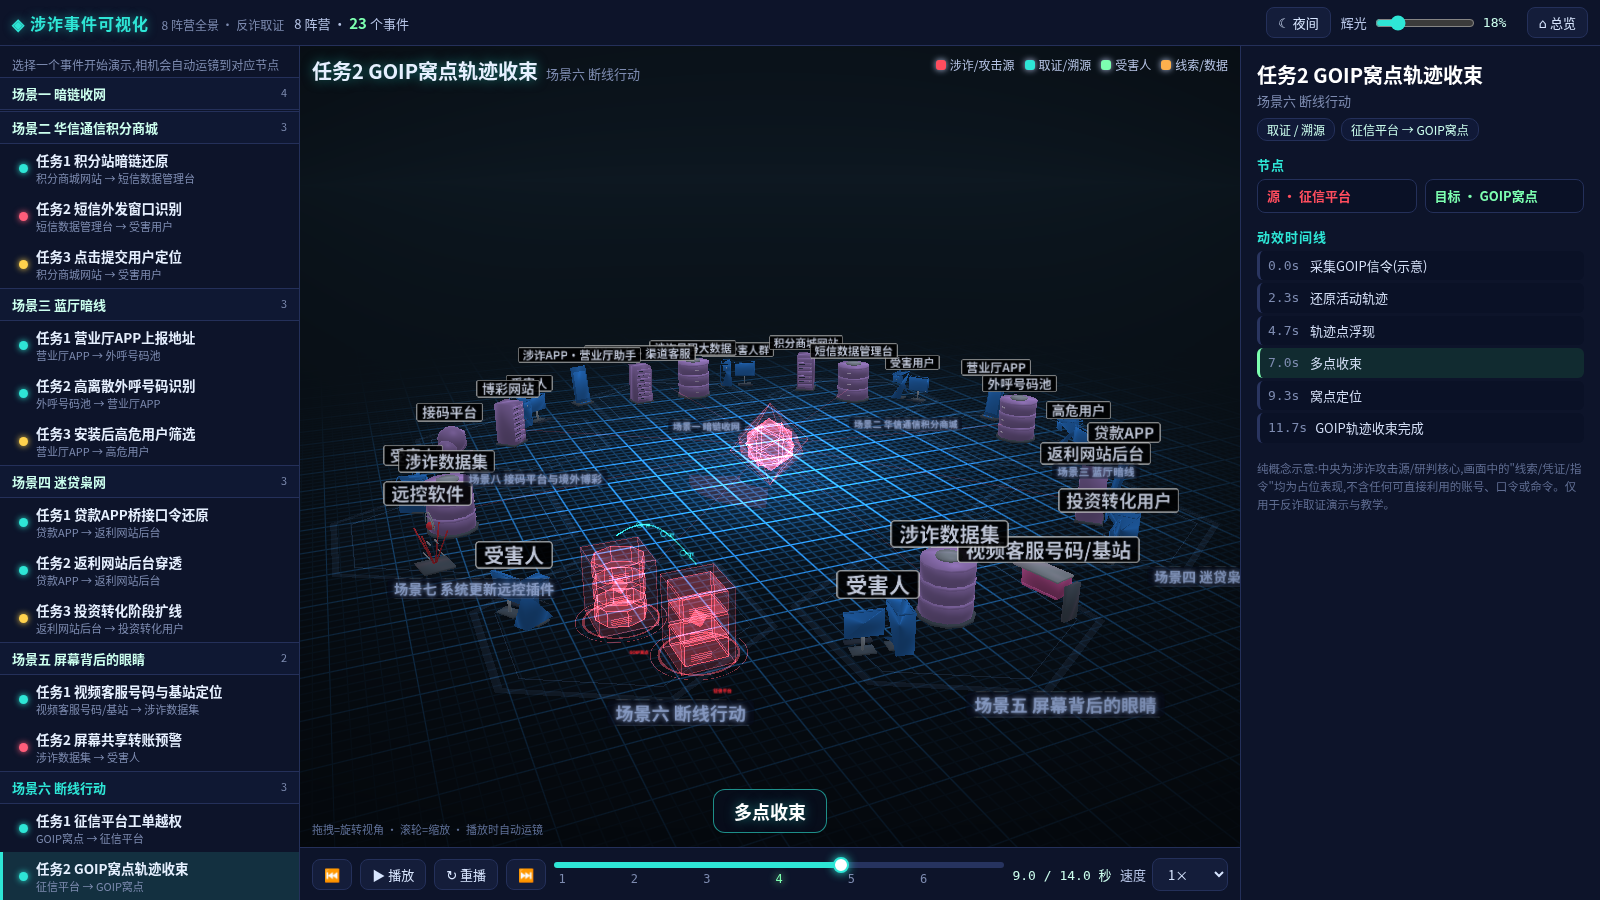
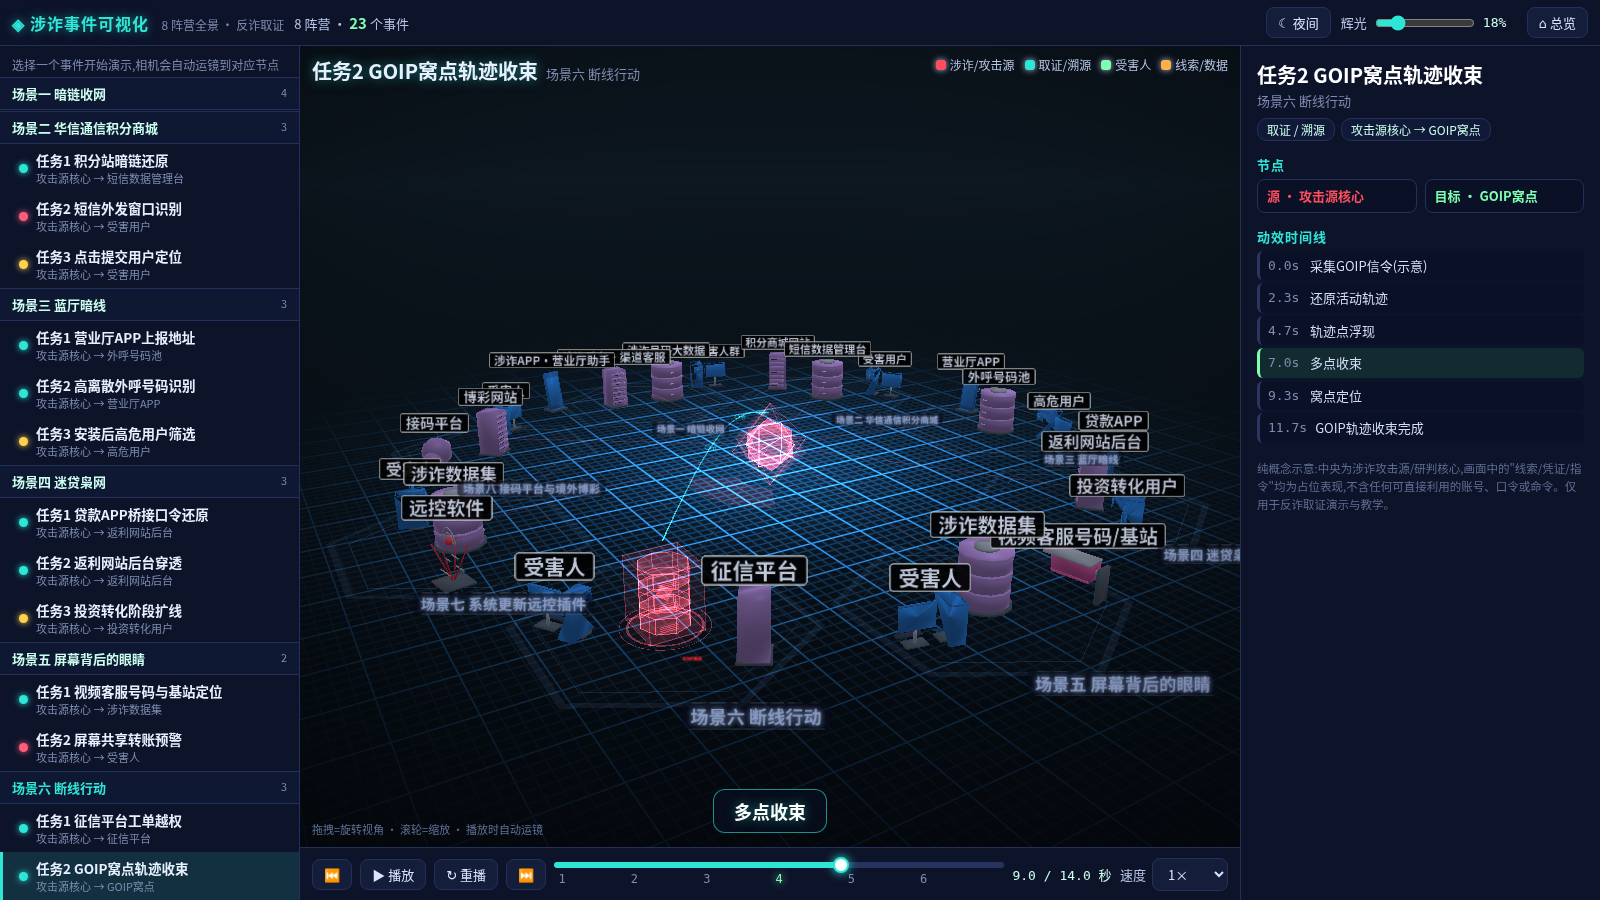
事件改为中央核心→目标节点(仅两者),不牵扯第三个节点

diff --git a/js/world-data.js b/js/world-data.js
@@ -62,58 +62,58 @@ CAMPS.forEach((camp, ci) => {
 const E = (o) => o;
 const EVENTS = [
   // 场景一
-  E({ id: 's1t1', camp: 'c1', name: '任务1 提取APP后台凭证', from: 's1_app', to: 's1_back', role: 'extract', dur: 14,
+  E({ id: 's1t1', camp: 'c1', name: '任务1 提取APP后台凭证', from: 'core', to: 's1_back', role: 'extract', dur: 14,
     cap: ['锁定涉诈APP与后台', '静态分析还原后台线索(示意)', '后台地址/账号线索浮现', '沿暗链溯源流向后台', '定位落入涉诈后台', '取证闭环·APP与后台关联'] }),
-  E({ id: 's1t2', camp: 'c1', name: '任务2 进入网站后台并取证', from: 's1_app', to: 's1_back', role: 'extract', dur: 14,
+  E({ id: 's1t2', camp: 'c1', name: '任务2 进入网站后台并取证', from: 'core', to: 's1_back', role: 'extract', dur: 14,
     cap: ['接入涉诈后台边界', '凭线索进入后台(授权取证)', '后台数据结构浮现', '关键运营证据提取', '证据固定与留痕', '后台取证完成'] }),
-  E({ id: 's1t3', camp: 'c1', name: '任务3 话单账单交叉定位', from: 's1_data', to: 's1_back', role: 'extract', dur: 14,
+  E({ id: 's1t3', camp: 'c1', name: '任务3 话单账单交叉定位', from: 'core', to: 's1_back', role: 'extract', dur: 14,
     cap: ['调取话单与账单数据', '多源数据对齐', '交叉比对找共性', '可疑号码聚合', '轨迹收敛定位', '交叉定位完成'] }),
-  E({ id: 's1t4', camp: 'c1', name: '任务4 潜在受害人闭环圈定', from: 's1_data', to: 's1_vic', role: 'spread', dur: 14,
+  E({ id: 's1t4', camp: 'c1', name: '任务4 潜在受害人闭环圈定', from: 'core', to: 's1_vic', role: 'spread', dur: 14,
     cap: ['以后台信息为锚点', '扩线到接触人群', '风险评分筛选', '高风险人群圈定', '闭环比对确认', '潜在受害人圈定完成'] }),
   // 场景二
-  E({ id: 's2t1', camp: 'c2', name: '任务1 积分站暗链还原', from: 's2_site', to: 's2_sms', role: 'extract', dur: 14,
+  E({ id: 's2t1', camp: 'c2', name: '任务1 积分站暗链还原', from: 'core', to: 's2_sms', role: 'extract', dur: 14,
     cap: ['锁定积分商城站点', '解析页面隐藏跳转(示意)', '暗链路径还原', '指向后端的链路浮现', '定位真实后端', '暗链还原完成'] }),
-  E({ id: 's2t2', camp: 'c2', name: '任务2 短信外发窗口识别', from: 's2_sms', to: 's2_vic', role: 'control', dur: 14,
+  E({ id: 's2t2', camp: 'c2', name: '任务2 短信外发窗口识别', from: 'core', to: 's2_vic', role: 'control', dur: 14,
     cap: ['接入短信数据管理台', '统计外发频次/时段', '异常外发窗口浮现', '锁定高频外发时段', '关联接收用户', '外发窗口识别完成'] }),
-  E({ id: 's2t3', camp: 'c2', name: '任务3 点击提交用户定位', from: 's2_site', to: 's2_vic', role: 'spread', dur: 14,
+  E({ id: 's2t3', camp: 'c2', name: '任务3 点击提交用户定位', from: 'core', to: 's2_vic', role: 'spread', dur: 14,
     cap: ['采集提交行为(示意)', '关联用户标识', '定位提交用户', '圈定受影响用户', '风险提示', '用户定位完成'] }),
   // 场景三
-  E({ id: 's3t1', camp: 'c3', name: '任务1 营业厅APP上报地址', from: 's3_app', to: 's3_call', role: 'extract', dur: 14,
+  E({ id: 's3t1', camp: 'c3', name: '任务1 营业厅APP上报地址', from: 'core', to: 's3_call', role: 'extract', dur: 14,
     cap: ['查获营业厅APP', '还原上报地址(示意)', '上报目标浮现', '指向外呼号码池', '定位号码池', '上报地址取证完成'] }),
-  E({ id: 's3t2', camp: 'c3', name: '任务2 高离散外呼号码识别', from: 's3_call', to: 's3_app', role: 'extract', dur: 14,
+  E({ id: 's3t2', camp: 'c3', name: '任务2 高离散外呼号码识别', from: 'core', to: 's3_app', role: 'extract', dur: 14,
     cap: ['调取外呼号码池', '计算离散度', '高离散号码浮现', '聚类锁定', '关联APP', '高离散号码识别完成'] }),
-  E({ id: 's3t3', camp: 'c3', name: '任务3 安装后高危用户筛选', from: 's3_app', to: 's3_vic', role: 'spread', dur: 14,
+  E({ id: 's3t3', camp: 'c3', name: '任务3 安装后高危用户筛选', from: 'core', to: 's3_vic', role: 'spread', dur: 14,
     cap: ['采集安装行为(示意)', '关联用户画像', '风险打分', '高危用户浮现', '圈定高危人群', '高危用户筛选完成'] }),
   // 场景四
-  E({ id: 's4t1', camp: 'c4', name: '任务1 贷款APP桥接口令还原', from: 's4_loan', to: 's4_back', role: 'extract', dur: 14,
+  E({ id: 's4t1', camp: 'c4', name: '任务1 贷款APP桥接口令还原', from: 'core', to: 's4_back', role: 'extract', dur: 14,
     cap: ['查获贷款APP', '还原桥接口令(示意)', '桥接通道浮现', '连接返利后台', '定位后台', '桥接口令还原完成'] }),
-  E({ id: 's4t2', camp: 'c4', name: '任务2 返利网站后台穿透', from: 's4_loan', to: 's4_back', role: 'extract', dur: 14,
+  E({ id: 's4t2', camp: 'c4', name: '任务2 返利网站后台穿透', from: 'core', to: 's4_back', role: 'extract', dur: 14,
     cap: ['接入返利网站边界', '穿透到后台(授权取证)', '后台结构浮现', '运营数据提取', '证据固定', '后台穿透取证完成'] }),
-  E({ id: 's4t3', camp: 'c4', name: '任务3 投资转化阶段扩线', from: 's4_back', to: 's4_vic', role: 'spread', dur: 14,
+  E({ id: 's4t3', camp: 'c4', name: '任务3 投资转化阶段扩线', from: 'core', to: 's4_vic', role: 'spread', dur: 14,
     cap: ['以后台数据为锚点', '还原投资转化链路', '转化阶段用户浮现', '扩线关联', '圈定受害用户', '投资转化扩线完成'] }),
   // 场景五
-  E({ id: 's5t1', camp: 'c5', name: '任务1 视频客服号码与基站定位', from: 's5_video', to: 's5_data', role: 'extract', dur: 14,
+  E({ id: 's5t1', camp: 'c5', name: '任务1 视频客服号码与基站定位', from: 'core', to: 's5_data', role: 'extract', dur: 14,
     cap: ['采集视频客服号码', '关联基站数据', '基站位置浮现', '多基站交汇', '位置收敛', '号码与基站定位完成'] }),
-  E({ id: 's5t2', camp: 'c5', name: '任务2 屏幕共享转账预警', from: 's5_data', to: 's5_vic', role: 'control', dur: 14,
+  E({ id: 's5t2', camp: 'c5', name: '任务2 屏幕共享转账预警', from: 'core', to: 's5_vic', role: 'control', dur: 14,
     cap: ['监测屏幕共享行为(示意)', '识别转账前兆', '高危会话浮现', '锁定受害人', '实时预警', '转账预警触发'] }),
   // 场景六
-  E({ id: 's6t1', camp: 'c6', name: '任务1 征信平台工单越权', from: 's6_goip', to: 's6_credit', role: 'extract', dur: 14,
+  E({ id: 's6t1', camp: 'c6', name: '任务1 征信平台工单越权', from: 'core', to: 's6_credit', role: 'extract', dur: 14,
     cap: ['接入征信平台边界', '发现工单越权(示意)', '越权访问路径浮现', '取证固定', '留痕归档', '工单越权取证完成'] }),
-  E({ id: 's6t2', camp: 'c6', name: '任务2 GOIP窝点轨迹收束', from: 's6_credit', to: 's6_goip', role: 'extract', dur: 14,
+  E({ id: 's6t2', camp: 'c6', name: '任务2 GOIP窝点轨迹收束', from: 'core', to: 's6_goip', role: 'extract', dur: 14,
     cap: ['采集GOIP信令(示意)', '还原活动轨迹', '轨迹点浮现', '多点收束', '窝点定位', 'GOIP轨迹收束完成'] }),
-  E({ id: 's6t3', camp: 'c6', name: '任务3 征信修复潜在受害人扩线', from: 's6_credit', to: 's6_vic', role: 'spread', dur: 14,
+  E({ id: 's6t3', camp: 'c6', name: '任务3 征信修复潜在受害人扩线', from: 'core', to: 's6_vic', role: 'spread', dur: 14,
     cap: ['以平台信息为锚点', '还原征信修复话术链路', '接触人群浮现', '风险扩线', '圈定受害人', '潜在受害人扩线完成'] }),
   // 场景七
-  E({ id: 's7t1', camp: 'c7', name: '任务1 远控插件协议逆向', from: 's7_rat', to: 's7_data', role: 'extract', dur: 14,
+  E({ id: 's7t1', camp: 'c7', name: '任务1 远控插件协议逆向', from: 'core', to: 's7_data', role: 'extract', dur: 14,
     cap: ['提取远控插件样本', '逆向通信协议(示意)', '控制指令结构浮现', '指向涉诈数据集', '定位控制端', '协议逆向完成'] }),
-  E({ id: 's7t2', camp: 'c7', name: '任务2 转账前远控受害人拦截', from: 's7_rat', to: 's7_vic', role: 'control', dur: 14,
+  E({ id: 's7t2', camp: 'c7', name: '任务2 转账前远控受害人拦截', from: 'core', to: 's7_vic', role: 'control', dur: 14,
     cap: ['监测远控会话(示意)', '识别转账前兆', '高危受害人浮现', '锁定会话', '实时拦截预警', '转账拦截触发'] }),
   // 场景八
-  E({ id: 's8t1', camp: 'c8', name: '任务1 接码平台取证', from: 's8_bet', to: 's8_code', role: 'extract', dur: 14,
+  E({ id: 's8t1', camp: 'c8', name: '任务1 接码平台取证', from: 'core', to: 's8_code', role: 'extract', dur: 14,
     cap: ['锁定接码平台', '接入边界(授权取证)', '接码记录浮现', '组织关系提取', '证据固定', '接码平台取证完成'] }),
-  E({ id: 's8t2', camp: 'c8', name: '任务2 博彩网站取证', from: 's8_code', to: 's8_bet', role: 'extract', dur: 14,
+  E({ id: 's8t2', camp: 'c8', name: '任务2 博彩网站取证', from: 'core', to: 's8_bet', role: 'extract', dur: 14,
     cap: ['锁定博彩网站', '接入边界(授权取证)', '站点结构浮现', '资金/账号线索提取', '证据固定', '博彩网站取证完成'] }),
-  E({ id: 's8t3', camp: 'c8', name: '任务3 潜在受害人扩线', from: 's8_bet', to: 's8_vic', role: 'spread', dur: 14,
+  E({ id: 's8t3', camp: 'c8', name: '任务3 潜在受害人扩线', from: 'core', to: 's8_vic', role: 'spread', dur: 14,
     cap: ['以站点数据为锚点', '扩线接触人群', '投注用户浮现', '风险圈定', '闭环确认', '潜在受害人扩线完成'] }),
 ];
 
